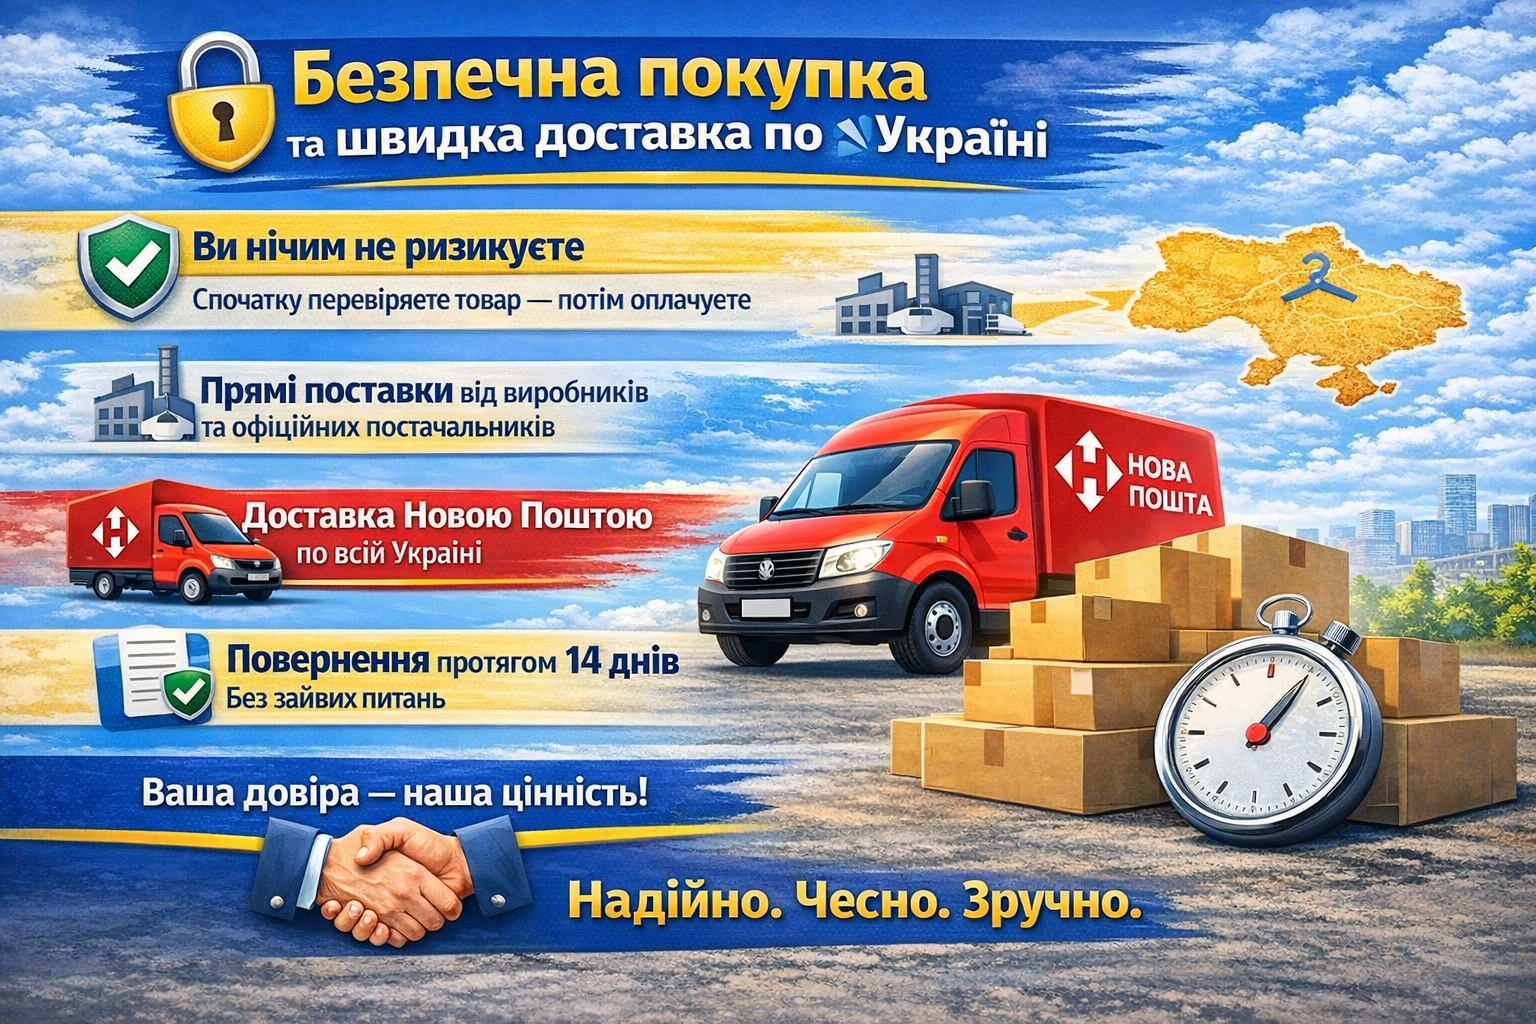
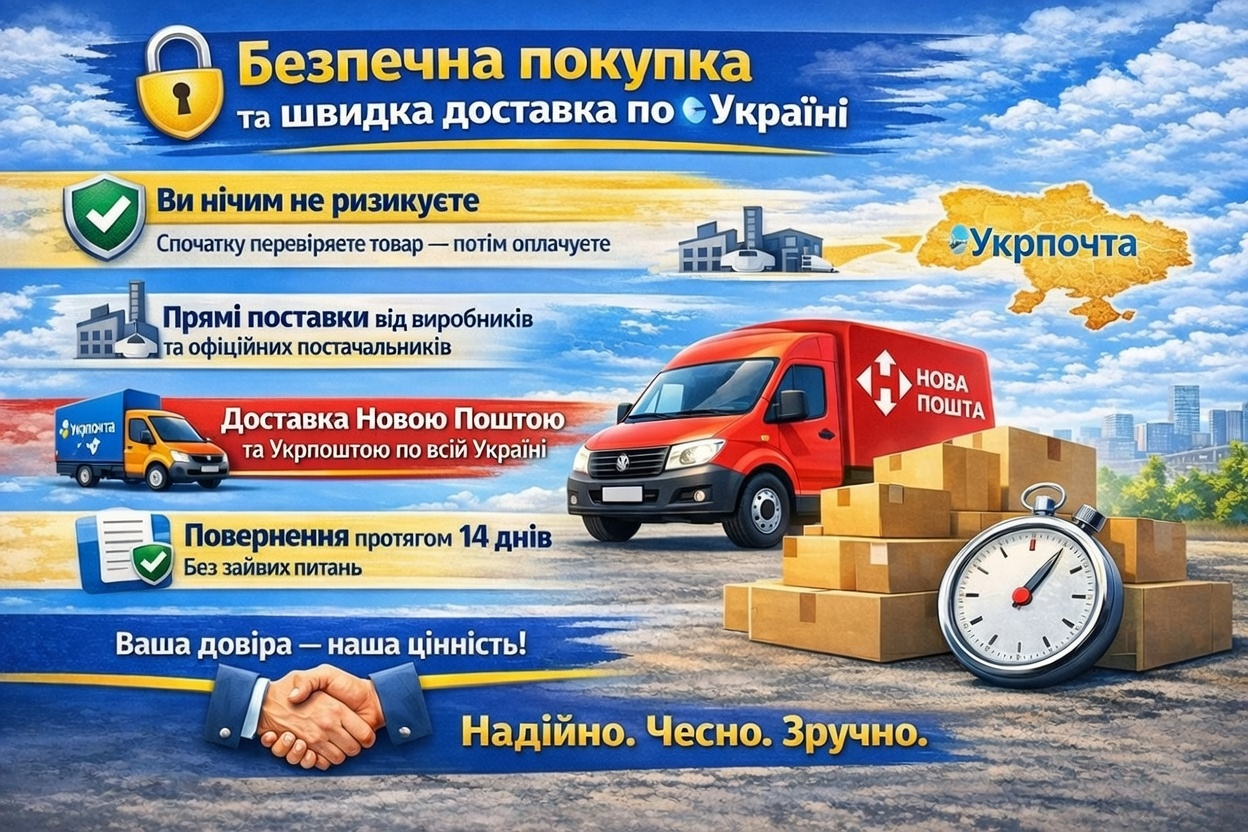
Add files via upload

diff --git a/index.html b/index.html
@@ -672,7 +672,7 @@
                 <div class="feature-icon">🚚</div>
                 <div class="feature-content">
                     <h4>Швидка доставка по Україні</h4>
-                    <p>Доставляємо по всій Україні через <strong>«Нову Пошту»</strong>. Середній термін доставки — 1-3 робочих дні.</p>
+                    <p>Доставляємо по всій Україні через <strong>«Нову Пошту» (1-3 дні)</strong> та <strong>«Укрпошту» (3-7 днів)</strong>. Вибирайте зручний для вас спосіб доставки!</p>
                 </div>
             </div>
             
@@ -680,7 +680,7 @@
                 <div class="feature-icon">💳</div>
                 <div class="feature-content">
                     <h4>Зручні способи оплати</h4>
-                    <p>Оплачуйте товар при отриманні на відділенні <strong>«Нової Пошти»</strong> готівкою або банківською карткою.</p>
+                    <p>Оплачуйте товар при отриманні на відділенні <strong>«Нової Пошти» або «Укрпошти»</strong> готівкою або банківською карткою.</p>
                 </div>
             </div>
             
@@ -835,9 +835,9 @@
         <div class="footer-section">
             <h4>Доставка та оплата</h4>
             <div class="delivery-info">
-                <div><i class="fas fa-shipping-fast" aria-hidden="true"></i> <strong>Доставка:</strong> Нова Пошта</div>
-                <div><i class="fas fa-credit-card" aria-hidden="true"></i> <strong>Оплата:</strong> При отриманні</div>
-                <div><i class="fas fa-clock" aria-hidden="true"></i> <strong>Термін доставки:</strong> 1-3 дні</div>
+                <div><i class="fas fa-shipping-fast" aria-hidden="true"></i> <strong>Доставка:</strong> Нова Пошта (1-3 дні), Укрпошта (3-7 днів)</div>
+                <div><i class="fas fa-credit-card" aria-hidden="true"></i> <strong>Оплата:</strong> При отриманні на відділенні</div>
+                <div><i class="fas fa-clock" aria-hidden="true"></i> <strong>Вибір служби доставки:</strong> При оформленні замовлення</div>
                 <div><i class="fas fa-box" aria-hidden="true"></i> <strong>Широкий вибір якісних товарів для дому</strong></div>
             </div>
         </div>
@@ -847,7 +847,7 @@
             <div class="contact-info">
                 <div><i class="fab fa-whatsapp" aria-hidden="true"></i> <a href="https://wa.me/380684296978" target="_blank" rel="noopener">WhatsApp</a></div>
                 <div><i class="fab fa-viber" aria-hidden="true"></i> <a href="viber://chat?number=+380684296978" target="_blank" rel="noopener">Viber</a></div>
-                <div><i class="fab fa-telegram" aria-hidden="true"></i> <a href="https://t.me/goodsyaua" target="_blank" rel="noopener">Telegram</a></div>
+                <div><i class="fab fa-telegram" aria-hidden="true"></i> <a href="https://t.me/Voanarhes" target="_blank" rel="noopener">Telegram</a></div>
                 <div><i class="fab fa-facebook" aria-hidden="true"></i> <a href="https://www.facebook.com/GOODSYA-UA" target="_blank" rel="noopener">Facebook</a></div>
                 <div><i class="fab fa-instagram" aria-hidden="true"></i> <a href="https://www.instagram.com/goodsyaua" target="_blank" rel="noopener">Instagram</a></div>
             </div>
@@ -884,6 +884,7 @@
                         <li>2.1. Замовлення оформляється на сайті через кошик. При оформленні необхідно вказати коректні ПІБ, адресу доставки, телефон та e‑mail.</li>
                         <li>2.2. Після розміщення замовлення Покупець отримує підтвердження на e‑mail та/або SMS та ТТН.</li>
                         <li>2.3. GOODSYA UA залишає за собою право зв'язатися з Покупцем для підтвердження замовлення та умов доставки.</li>
+                        <li>2.4. При оформленні замовлення Покупець обирає зручну для себе службу доставки: "Нова Пошта" або "Укрпошта".</li>
                     </ul>
                 </section>
 
@@ -891,21 +892,27 @@
                     <h2>3. Оплата</h2>
                     <ul>
                         <li>3.1. На даний момент доступні такі способи оплати: 
-                            <strong>накладений платіж при отриманні на відділенні «Нової Пошти»</strong> (оплата готівкою або карткою при отриманні).
+                            <strong>накладений платіж при отриманні на відділенні «Нової Пошти» або «Укрпошти»</strong> (оплата готівкою або карткою при отриманні).
                         </li>
                         <li>3.2. У майбутньому можливе впровадження додаткових способів оплати, про що буде повідомлено додатково на сайті.</li>
-                        <li>3.3. Оплата вважається виконаною з моменту отримання товару та його оплати у відділенні «Нової Пошти».</li>
+                        <li>3.3. Оплата вважається виконаною з моменту отримання товару та його оплати у відділенні служби доставки.</li>
                     </ul>
                 </section>
 
                 <section id="delivery">
                     <h2>4. Доставка</h2>
                     <ul>
-                        <li>4.1. Доставка виконується виключно через службу доставки <strong>«Нова Пошта»</strong> по всій території України.</li>
-                        <li>4.2. Вартість та термін доставки розраховуються згідно з тарифами перевізника та залежать від ваги товару та регіону доставки.</li>
-                        <li>4.3. Термін доставки складає 1-3 робочих дні після відправлення.</li>
+                        <li>4.1. Доставка виконується через служби доставки <strong>«Нова Пошта»</strong> та <strong>«Укрпошта»</strong> по всій території України.</li>
+                        <li>4.2. Орієнтовні терміни доставки:
+                            <ul>
+                                <li><strong>«Нова Пошта»</strong>: 1-3 робочі дні після відправлення</li>
+                                <li><strong>«Укрпошта»</strong>: 3-7 робочих днів після відправлення</li>
+                            </ul>
+                        </li>
+                        <li>4.3. Вартість доставки розраховується згідно з тарифами обраної служби доставки та залежить від ваги товару та регіону доставки.</li>
                         <li>4.4. GOODSYA UA не несе відповідальності за затримки доставки, викликані роботою транспортної компанії, погодними умовами чи форс‑мажором.</li>
                         <li>4.5. Усі товари пакуються в безпечну упаковку, що запобігає пошкодженням під час транспортування.</li>
+                        <li>4.6. Покупець може обрати зручну для себе службу доставки при оформленні замовлення.</li>
                     </ul>
                 </section>
 
@@ -915,6 +922,7 @@
                         <li>5.1. На всі товари поширюється гарантія виробника. Термін гарантії вказаний у картці товару або в супровідних документах.</li>
                         <li>5.2. Повернення товару належної якості можливе протягом 14 днів з моменту покупки за дотримання умов: товарний вигляд, цілісність упаковки, збережені ярлики та комплектуючі.</li>
                         <li>5.3. Повернення дефектного товару здійснюється відповідно до чинного законодавства — обмін або повернення коштів проводиться після перевірки товару.</li>
+                        <li>5.4. Для повернення товару через Укрпошту доступні всі стандартні процедури повернення.</li>
                     </ul>
                 </section>
 
@@ -946,7 +954,7 @@
     </a>
 
     <!-- Плавающая кнопка Telegram -->
-    <a href="https://t.me/goodsyaua" 
+    <a href="https://t.me/Voanarhes" 
        class="telegram-float" 
        target="_blank" 
        rel="noopener noreferrer"

diff --git a/script.js b/script.js
@@ -2150,8 +2150,8 @@ function initApp() {
         localStorage.setItem('products_backup', JSON.stringify(products));
       })
       .catch(jsonError => {
-        console.error("Помилка завантаження з JSON:", jsonError);
-        showNotification("Не вдалося завантажити товари", "error");
+        console.error("");
+        showNotification("");
         isProductsLoading = false;
         renderProducts();
       });
@@ -2354,8 +2354,8 @@ function loadProducts() {
       }
     })
     .catch((error) => {
-      console.error("Помилка завантаження з Firestore:", error);
-      showNotification("Помилка завантаження товарів", "error");
+      console.error("");
+      showNotification("");
       isProductsLoading = false;
       
       const data = localStorage.getItem('products_backup');
@@ -4715,8 +4715,8 @@ function loadAdminProducts() {
       });
     })
     .catch((error) => {
-      console.error("Помилка завантаження товарів: ", error);
-      productsList.innerHTML = '<p>Помилка завантаження товарів</p>';
+      console.error("");
+      productsList.innerHTML = '<p></p>';
     });
 }
 
